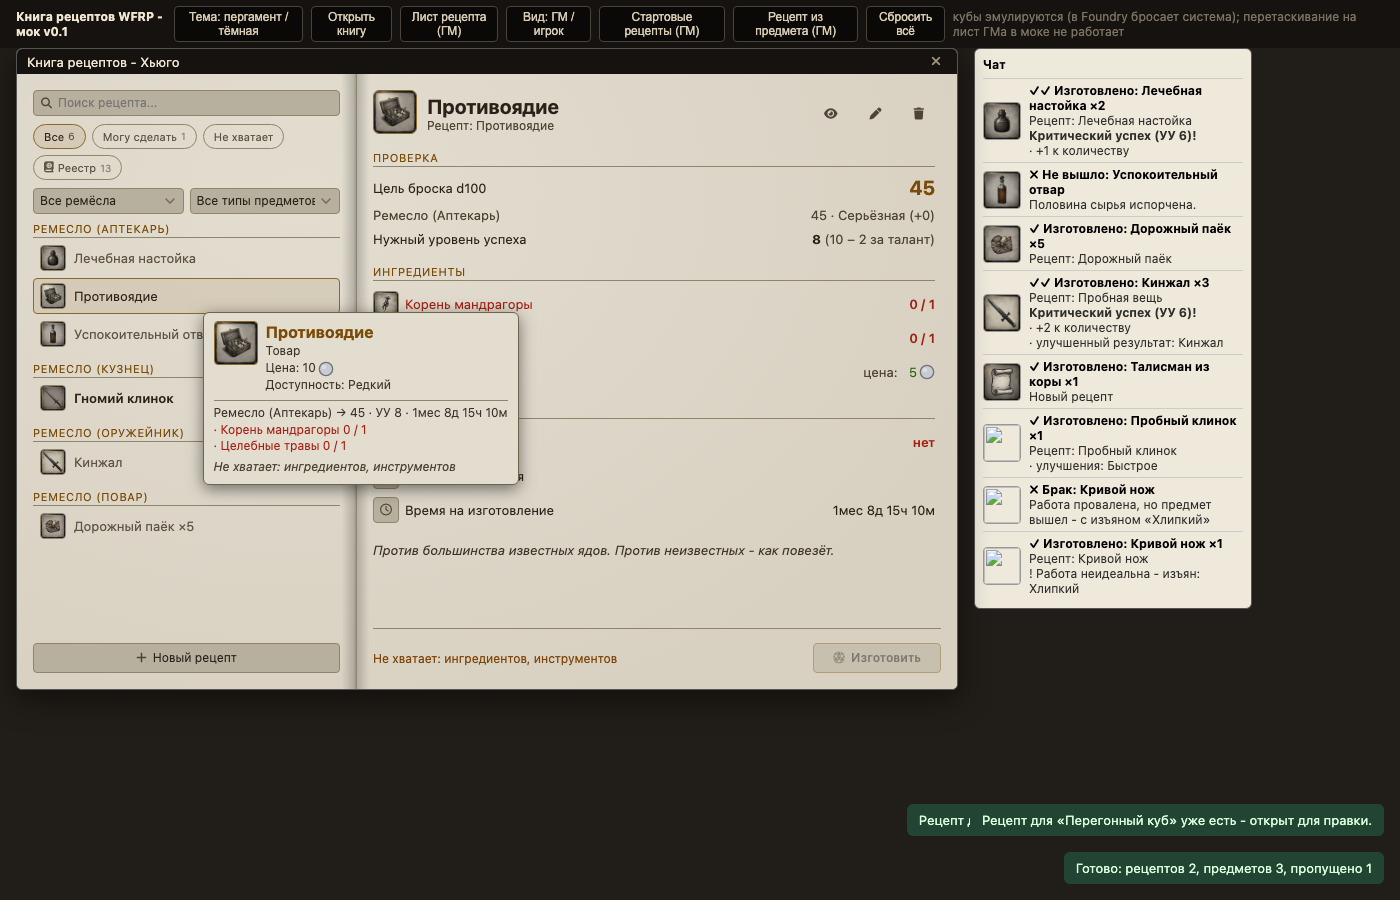
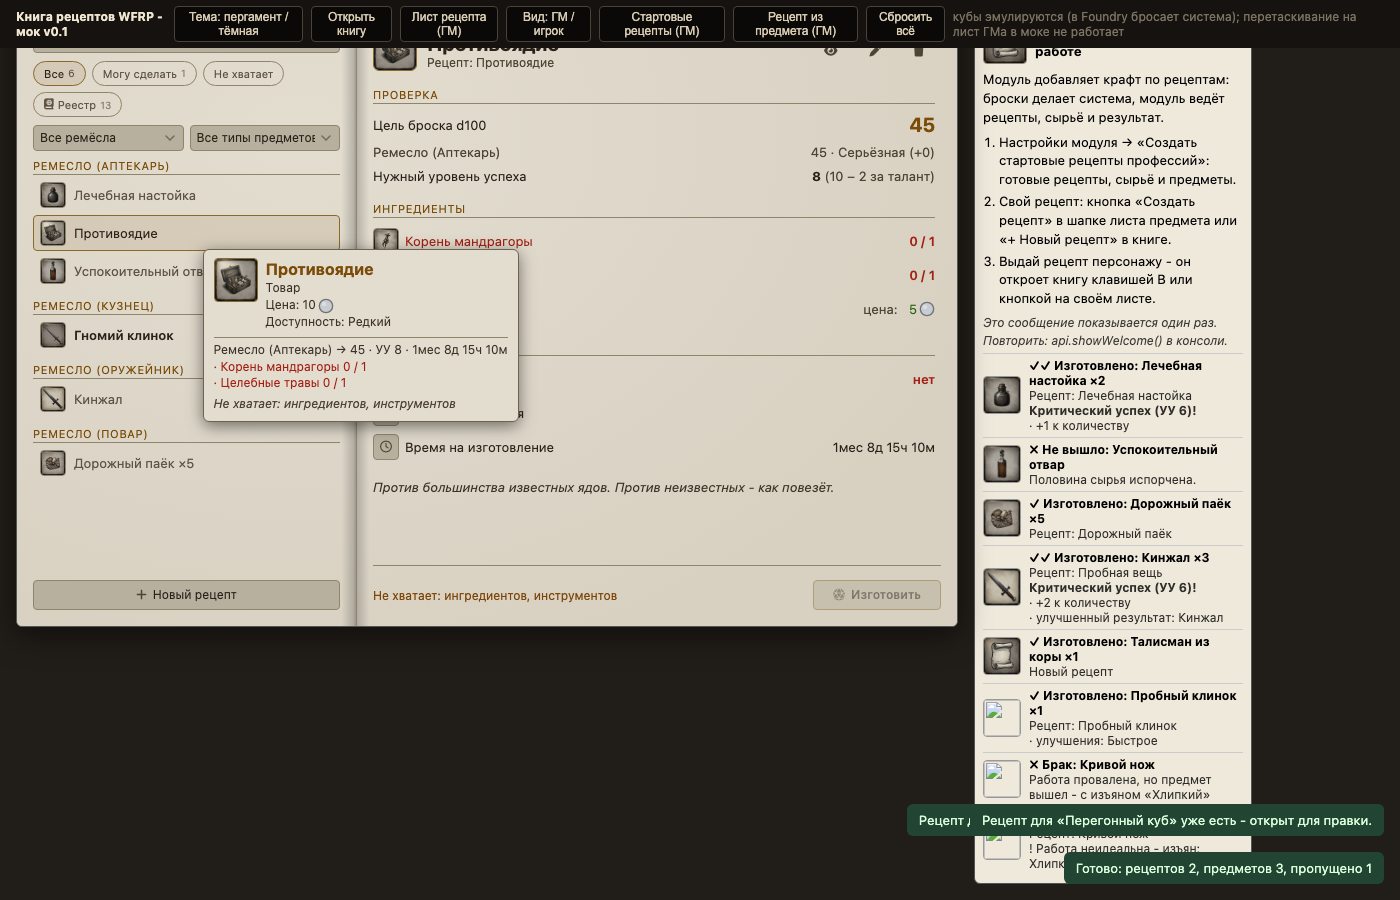
v0.1.29: приветствие ГМу в чат при первом запуске (первые шаги, один раз на мир)

diff --git a/scripts/main.js b/scripts/main.js
@@ -5,6 +5,7 @@ import { RecipeBookApp, watchCrafting, startCraft, rollCraft, recipeStatus, load
 import { RecipeSheet } from "./recipe-sheet.js";
 import { StarterRecipesApp, installStarter } from "./starter-install.js";
 import { createRecipeFromItem, canMakeRecipe } from "./recipe-from-item.js";
+import { welcomeOnce, showWelcome } from "./welcome.js";
 
 const SUPPORTED_TYPES = ["character", "npc", "creature"];
 
@@ -23,6 +24,11 @@ Hooks.once("init", () => {
     types: [RECIPE_TYPE],
     makeDefault: true,
     label: "WFRPRB.Sheet.Label"
+  });
+
+  // Приветствие показывается один раз на мир
+  game.settings.register(MODULE_ID, "welcomeShown", {
+    scope: "world", config: false, type: Boolean, default: false
   });
 
   // Кнопка ГМа: поставить стартовые рецепты профессий
@@ -132,7 +138,13 @@ Hooks.once("init", () => {
   watchCrafting();
 
   // Доступ из макросов: game.modules.get("wfrp4e-recipe-book").api.open(actor)
-  game.modules.get(MODULE_ID).api = { open: (a) => RecipeBookApp.openFor(a), startCraft, rollCraft, recipeStatus, installStarter, createRecipeFromItem, RecipeBookApp };
+  game.modules.get(MODULE_ID).api = { open: (a) => RecipeBookApp.openFor(a), startCraft, rollCraft, recipeStatus, installStarter, createRecipeFromItem, showWelcome, RecipeBookApp };
+});
+
+/* Первый запуск: приветствие ГМу с первыми шагами */
+Hooks.once("ready", () => {
+  if (game.system.id !== "wfrp4e") return;
+  welcomeOnce().catch((err) => console.warn(`${MODULE_ID} | welcome`, err));
 });
 
 /* Кнопка «Создать рецепт» в шапке листа ЛЮБОГО предмета (только ГМ).

diff --git a/scripts/welcome.js b/scripts/welcome.js
@@ -1,0 +1,33 @@
+/* Приветствие в чат: один раз после установки модуля в мир (видит только ГМ).
+   Задача карточки - не похвалить себя, а показать три первых шага. */
+
+import { MODULE_ID } from "./recipe-model.js";
+import { L, esc } from "./recipe-book.js";
+
+/** Показать карточку (повторно можно вызвать из макроса: api.showWelcome()) */
+export async function showWelcome() {
+  const img = `modules/${MODULE_ID}/assets/icons/recipe-default.png`;
+  const steps = [
+    L("WFRPRB.Welcome.Step1"),
+    L("WFRPRB.Welcome.Step2"),
+    L("WFRPRB.Welcome.Step3")
+  ].map((t) => `<li>${esc(t)}</li>`).join("");
+
+  await ChatMessage.create({
+    whisper: ChatMessage.getWhisperRecipients?.("GM")?.map((u) => u.id) ?? [],
+    content: `<div class="rb-welcome">
+      <div class="rb-welcome-head"><img src="${img}" alt=""><b>${esc(L("WFRPRB.Welcome.Title"))}</b></div>
+      <div class="rb-welcome-text">${esc(L("WFRPRB.Welcome.Intro"))}</div>
+      <ol class="rb-welcome-steps">${steps}</ol>
+      <div class="rb-welcome-foot">${esc(L("WFRPRB.Welcome.Foot"))}</div>
+    </div>`
+  });
+}
+
+/** Первый запуск в мире: показать приветствие и больше не повторять */
+export async function welcomeOnce() {
+  if (!game.user.isGM) return;
+  if (game.settings.get(MODULE_ID, "welcomeShown")) return;
+  await game.settings.set(MODULE_ID, "welcomeShown", true);
+  await showWelcome();
+}

diff --git a/styles/recipe-book.css b/styles/recipe-book.css
@@ -236,3 +236,11 @@
 /* Карточка-подсказка рецепта: нехватка - красным, итоговая строка приглушена */
 .wfrp-recipe-book .rb-tt-bad { color: var(--rb-bad); }
 .wfrp-recipe-book .rb-tt-status { margin-top: var(--rb-space-1); color: var(--rb-muted); font-style: italic; }
+
+/* ---------- Приветственная карточка в чате ---------- */
+.rb-welcome { font-size: var(--rb-fs-base); line-height: 1.45; }
+.rb-welcome-head { display: flex; align-items: center; gap: var(--rb-space-3); margin-bottom: var(--rb-space-2); }
+.rb-welcome-head img { width: var(--rb-icon-l); height: var(--rb-icon-l); object-fit: cover; border: 1px solid var(--rb-frame); border-radius: var(--rb-radius); }
+.rb-welcome-steps { margin: var(--rb-space-2) 0 0; padding-left: var(--rb-space-7); }
+.rb-welcome-steps li { margin-bottom: 3px; }
+.rb-welcome-foot { margin-top: var(--rb-space-2); font-size: var(--rb-fs-m); opacity: 0.75; font-style: italic; }

diff --git a/tools/mock-runtime.js b/tools/mock-runtime.js
@@ -425,6 +425,7 @@
   window.__RB_chat__ = chatLog;
   window.ChatMessage = {
     getSpeaker: ({ actor } = {}) => ({ alias: actor?.name }),
+    getWhisperRecipients: () => [game.user],
     create: async (d) => {
       chatLog.push(d);
       const box = document.getElementById("mock-chat");

diff --git a/styles/rb-system.css b/styles/rb-system.css
@@ -16,7 +16,8 @@
    ============================================================================ */
 
 .wfrp-recipe-book,
-.rb-chat-card {
+.rb-chat-card,
+.rb-welcome {
   /* Шкала отступов */
   --rb-space-1: 4px;
   --rb-space-2: 6px;

diff --git a/CLAUDE.md b/CLAUDE.md
@@ -174,6 +174,12 @@
 - Хук updateItem обновляет книгу для рецептов и запасов (без этого сохранение черновика
   и правки полей не появлялись в списке до следующего события).
 
+## Приветствие (scripts/welcome.js)
+
+Один раз на мир (флаг welcomeShown, scope world) ГМу шепчется карточка с тремя первыми шагами:
+стартовые рецепты из настроек, создание своего рецепта, выдача игроку. Повторный показ -
+api.showWelcome(). В моке ready зовётся вручную из сборки (в Foundry это делает ядро).
+
 ## Локализация
 
 - Настройка «Язык модуля» (клиент): auto (как Foundry) / ru / en. Реализация - СВОЯ таблица
